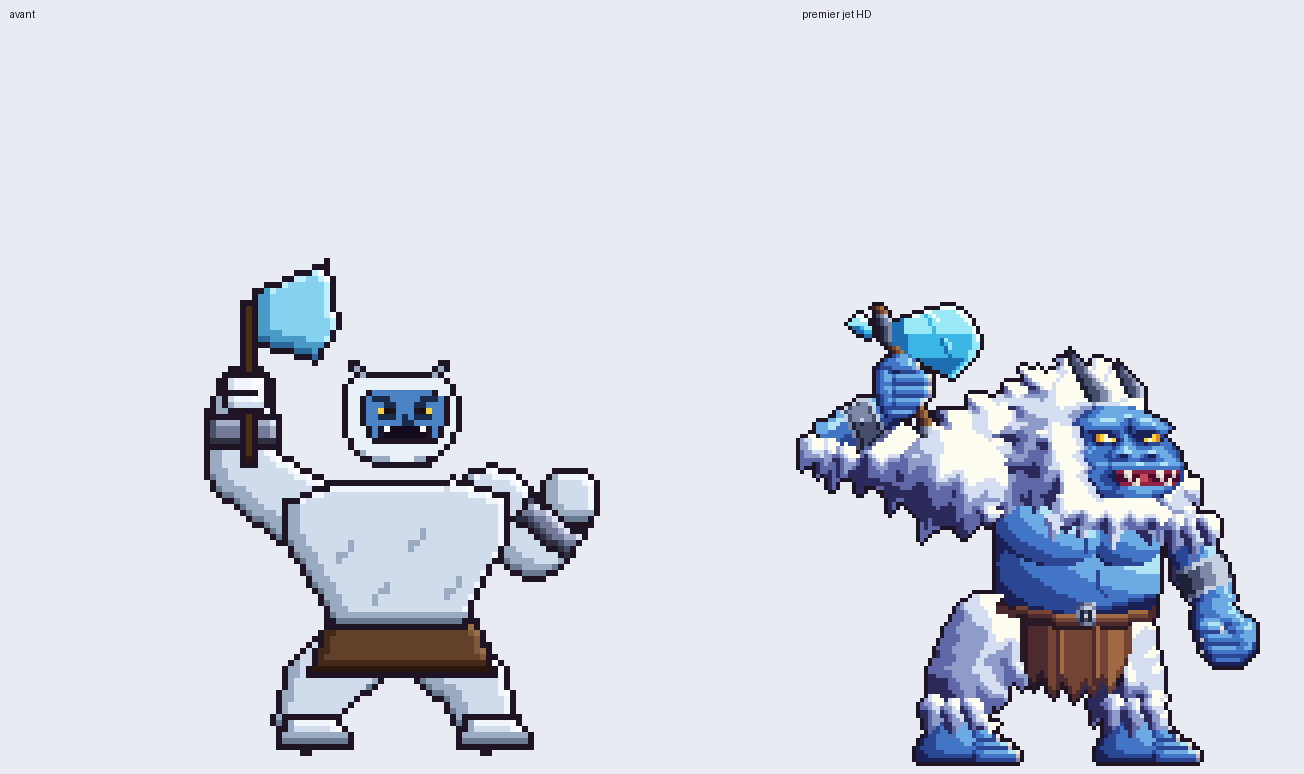
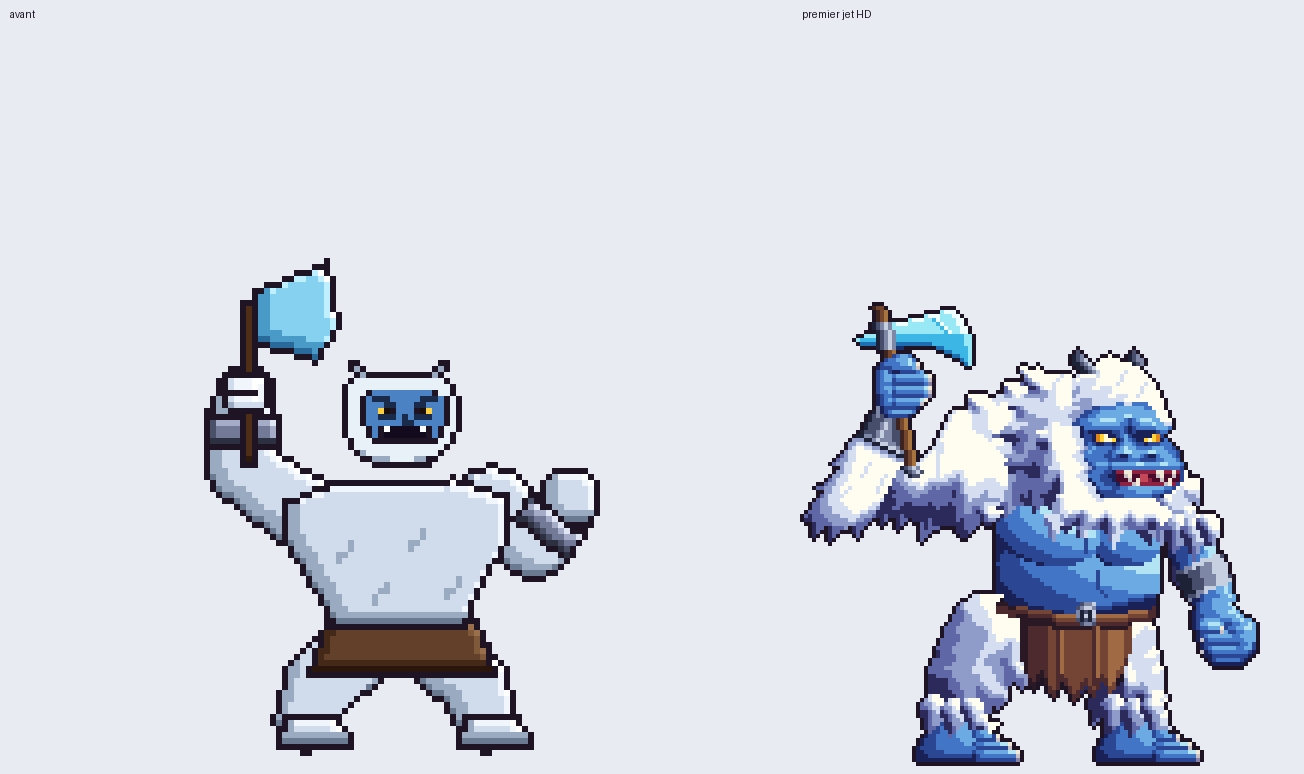
Héros HD : Velith (avant-bras) et Minotaure (trou du collier) retouchés
Claude-Session: https://claude.ai/code/session_01StTiAY1KCerfi9tSgksXg5

Changed region(s): [[0.6135, 0.4961, 0.7362, 0.7132], [0.7975, 0.4341, 0.9202, 0.5581], [0.6442, 0.3721, 0.7669, 0.4961]]

diff --git a/refonte-graphique/pixel/hd/suivi.py b/refonte-graphique/pixel/hd/suivi.py
@@ -58,7 +58,7 @@ RETOUCHES = {
     'ysolde': "Nez moins brouillon.",
 }
 # retouches faites, en attente du regard du propriétaire
-FAITES = {'lenore', 'garvin', 'nerith', 'ysolde', 'rook'}
+FAITES = {'lenore', 'garvin', 'nerith', 'ysolde', 'rook', 'velith', 'minotaure'}
 ELEMENTS = [('eau', 'Eau'), ('terre', 'Terre'), ('feu', 'Feu'), ('vent', 'Vent')]
 
 
